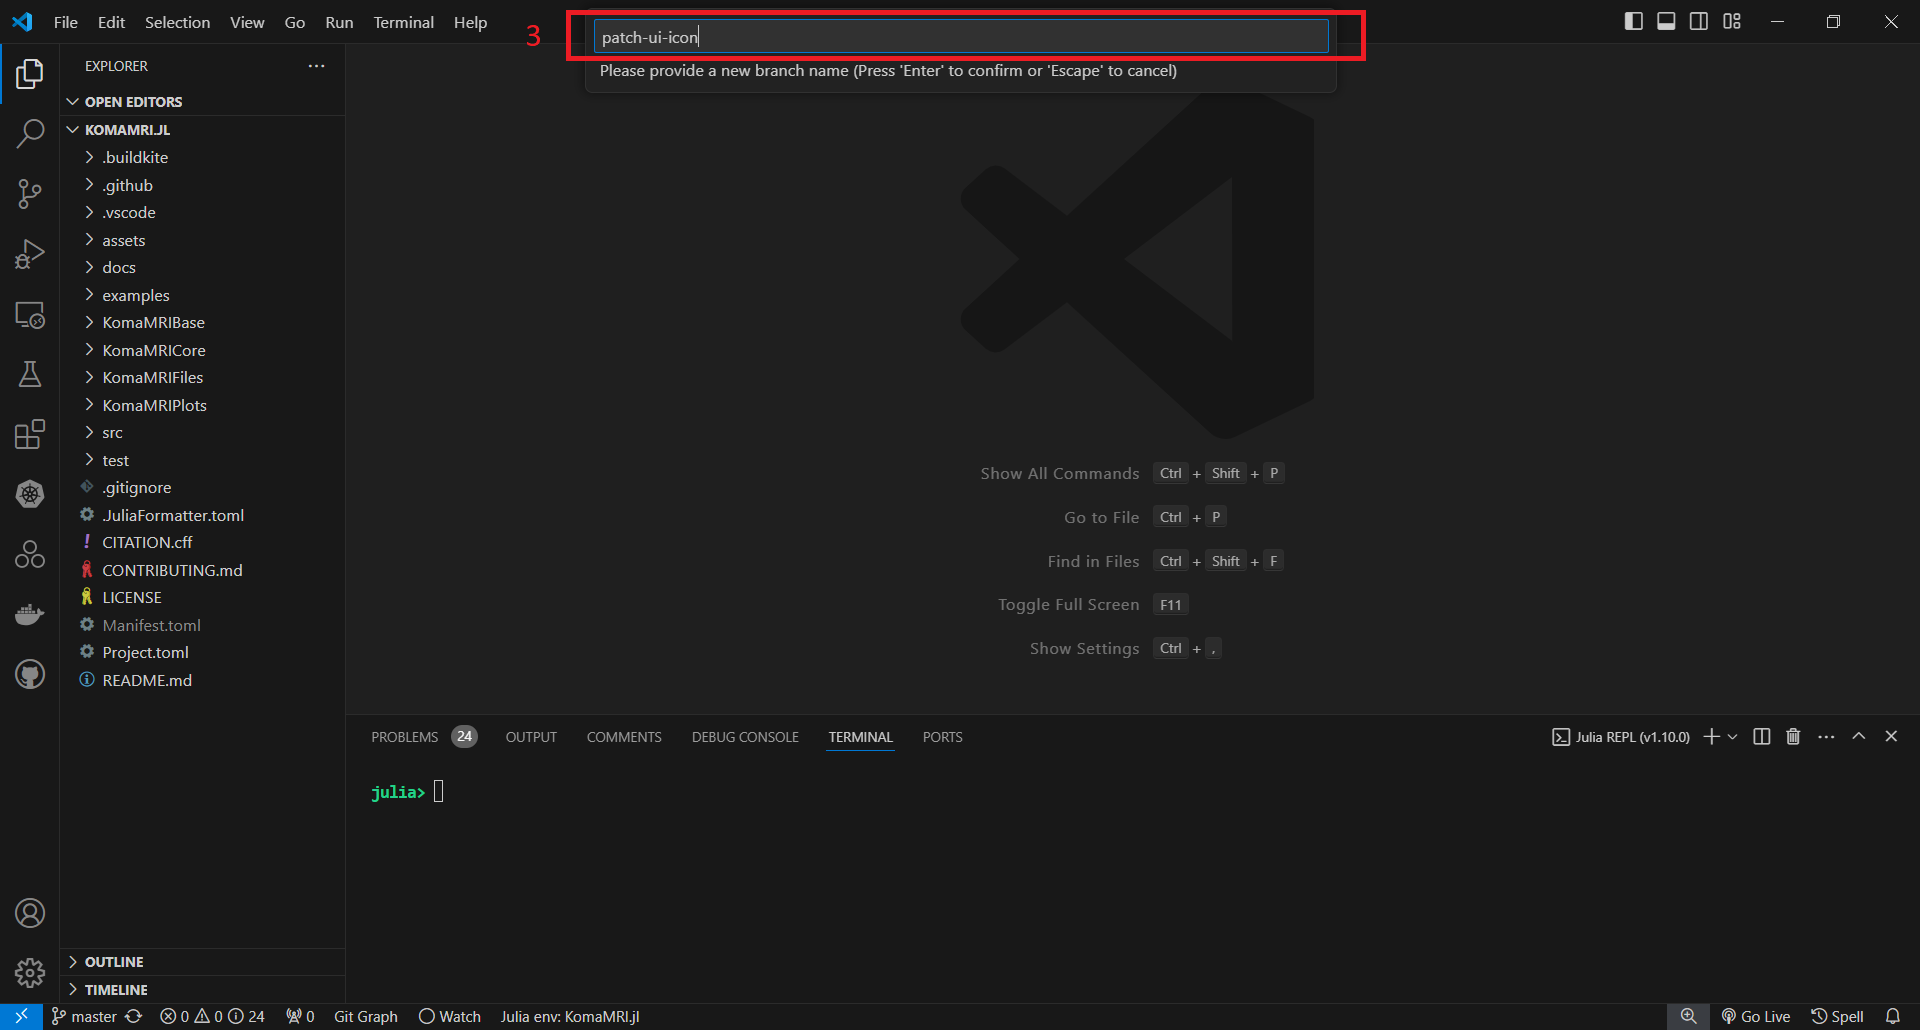
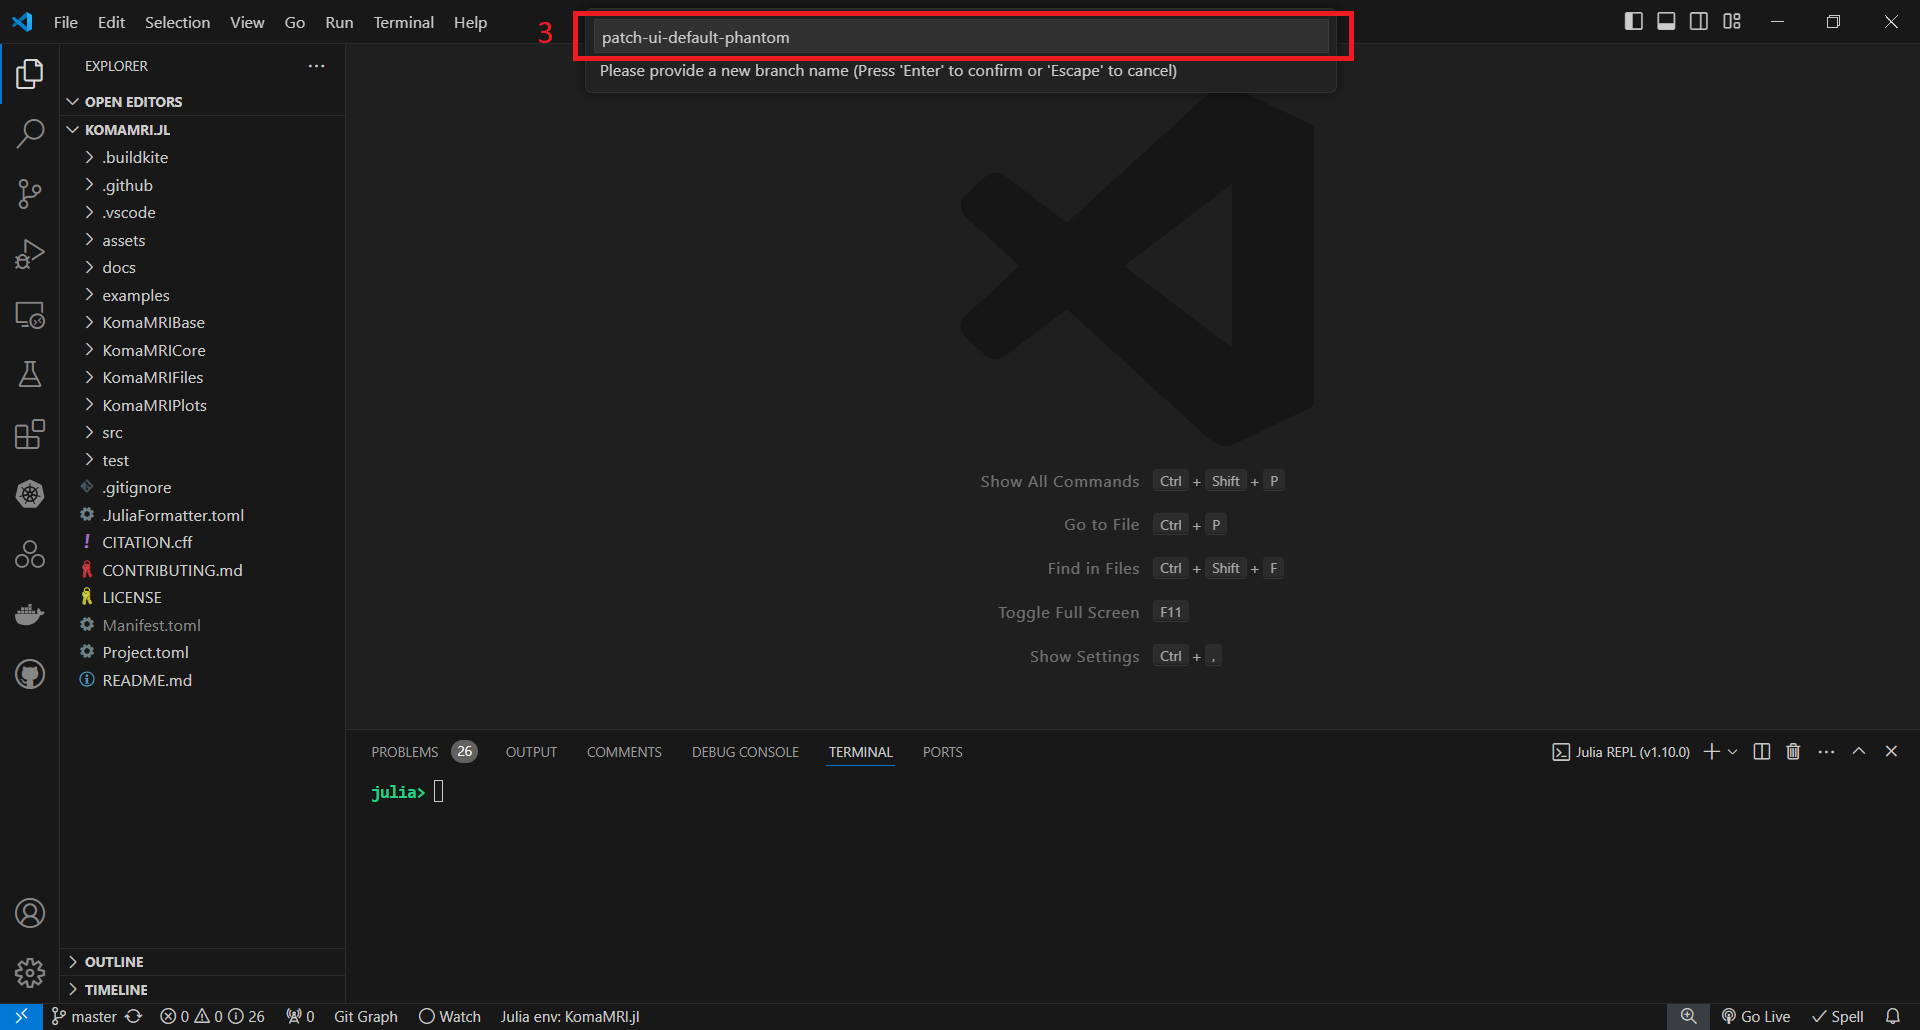
Temporal changes in docs for dev environment

diff --git a/docs/src/develop.md b/docs/src/develop.md
@@ -62,6 +62,8 @@ Let's see what is the default phantom in the user interface by clicking in the `
 
 ![](assets/dev-default-phantom-brain.png) 
 
+You can close the KomaMRI user interface.
+
 
 ## Make changes to your Fork
 
@@ -72,6 +74,35 @@ First create a branch with a descriptive name, in this case `patch-ui-default-ph
 ![](assets/dev-branch.png)
 ![](assets/dev-branch-name.png)
 
+In this new branch, we are going to edit the `setup_phantom` function located in the file `src/ui/ExportUIFunctions.jl`. We simply replace the line where a brain phantom is defined by the function `pelvis_brain2D`: 
 
-* Setup development environments
+![](assets/dev-branch-edit.png)
+
+Then, you need to compile the function `setup_phantom`, simply put the cursor in a place inside the function `setup_phantom` and then press `Alt + Enter`:
+
+![](assets/dev-branch-compile.png)
+
+Now, let's see what is the new default phantom in the user interface by clicking in the `Phantom dropdown` and then press the `View Phantom` button:
+
+```julia-repl
+julia> KomaUI()
+```
+
+![](assets/dev-default-phantom-pelvis.png)
+
+Everything looks good, let's stage the changes:
+
+![](assets/dev-stage-changes.png)
+
+And commit the changes:
+
+![](assets/dev-commit-changes.png)
+
+Let's upload these changes in your github fork:
+
+![](assets/dev-publish.png)
+
+![](assets/dev-pullreq.png)
+
+![](assets/dev-pullreq-name.png)
 
